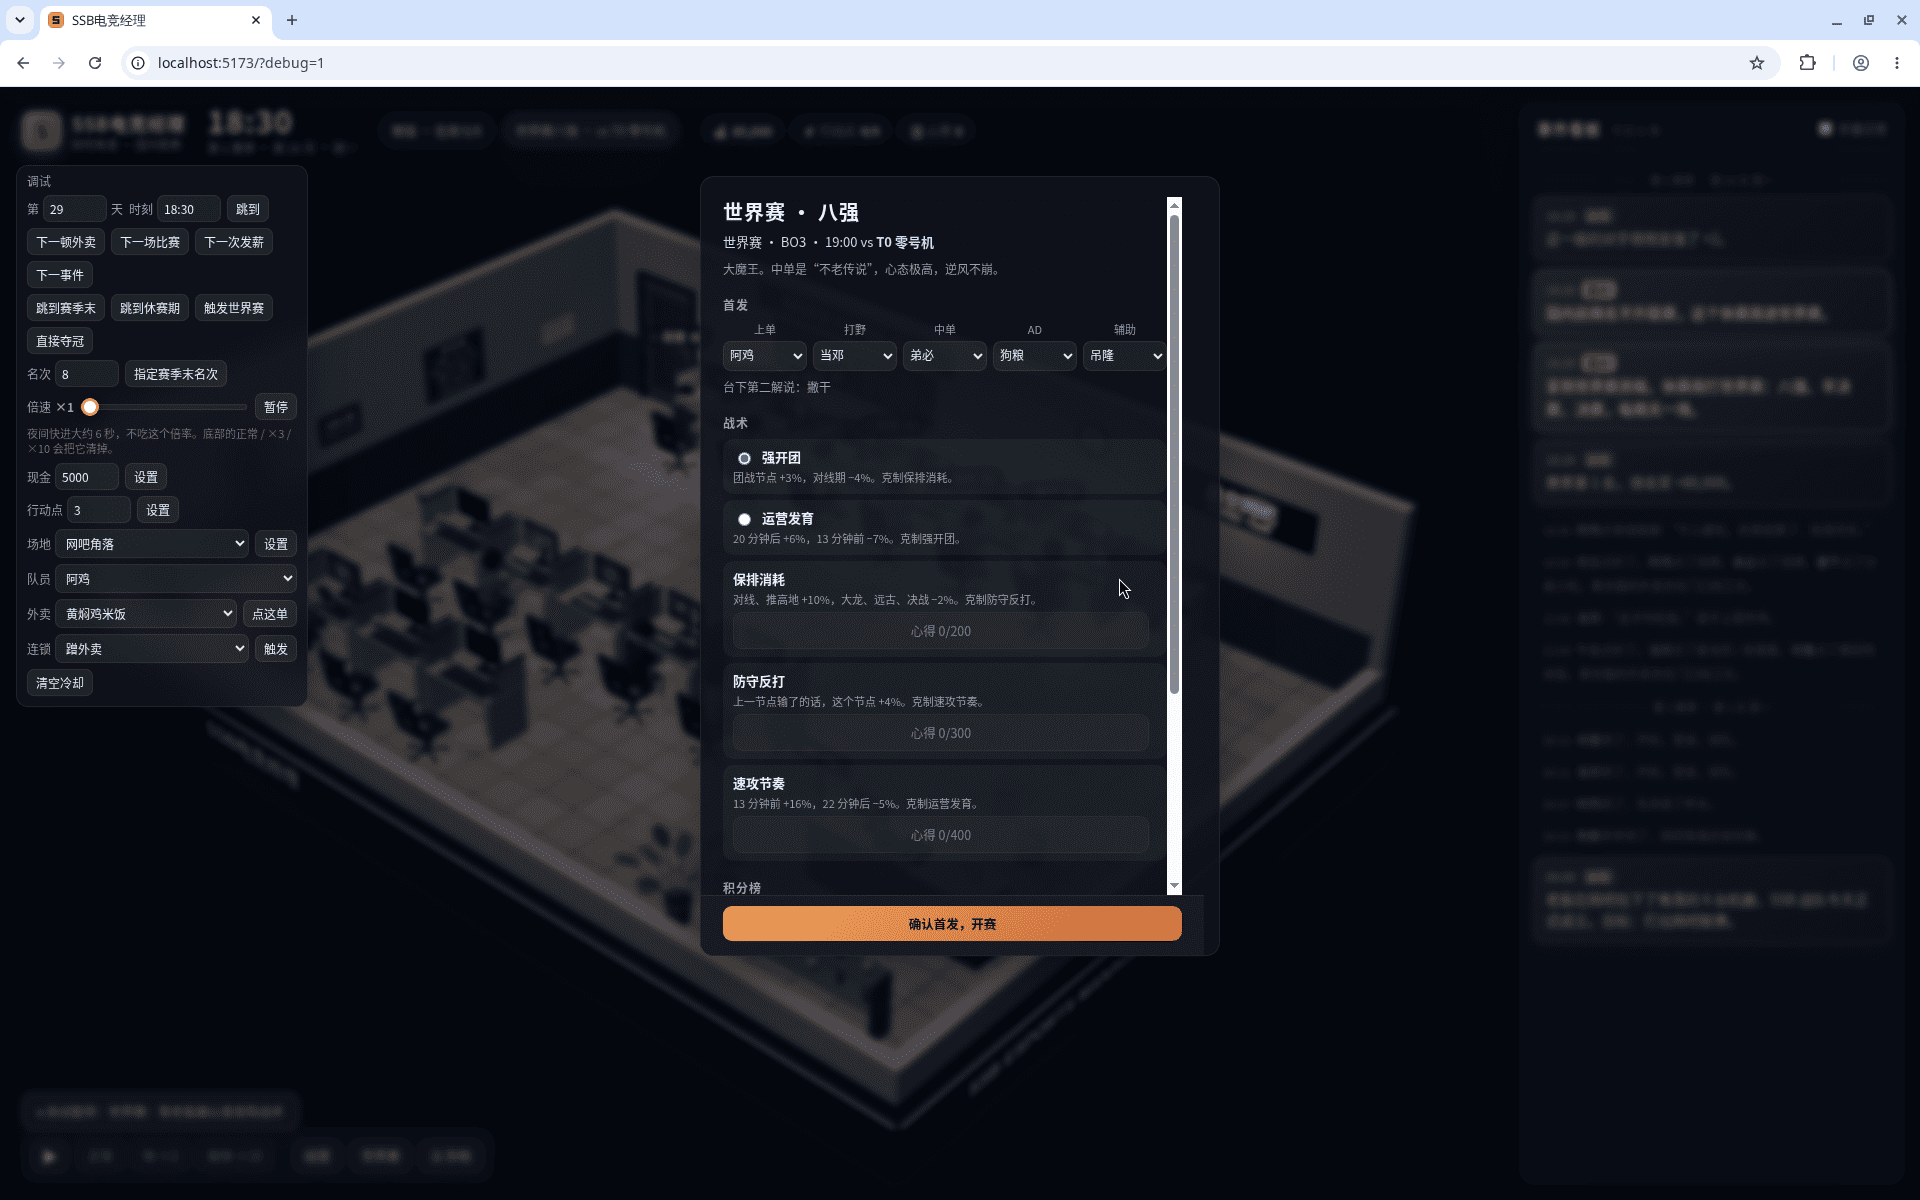
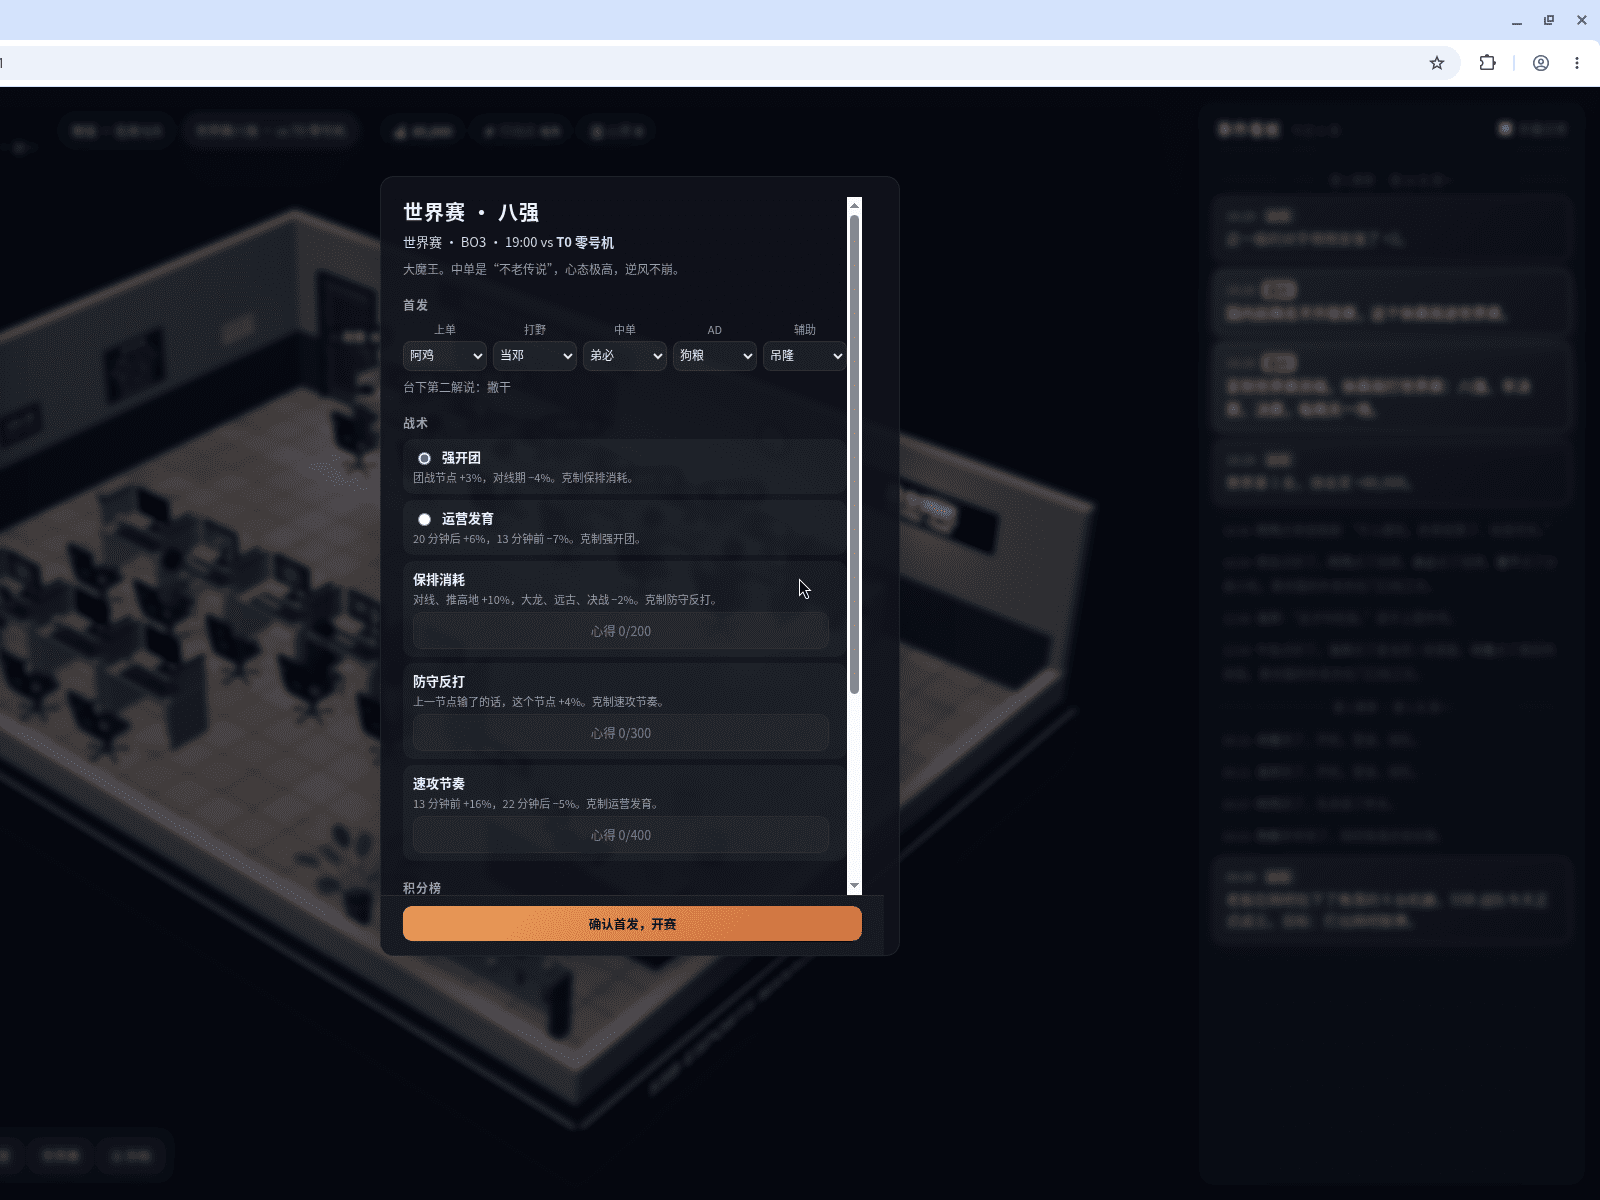
README 截图：首页改用无调试面板的赛前首发
覆盖首发、事件看板和夺冠图，正文嵌入首发，事件看板只留在目录里。

diff --git a/README.md b/README.md
@@ -22,9 +22,9 @@
 
 ![网吧角落](docs/readme-shots/01-netcafe.png)
 
-事件看板。摸鱼、甩锅、谁又去刷短视频，都记在这里。
+赛前首发。世界赛开打前排阵容和战术。
 
-![事件看板](docs/readme-shots/03-events.png)
+![赛前首发](docs/readme-shots/02-lineup.png)
 
 世界赛冠军。打完这场，还可以选择继续经营。
 
